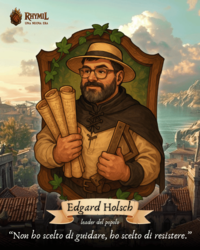
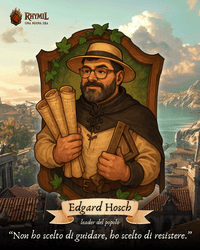
update delphine and edgard

diff --git a/index.html b/index.html
@@ -121,7 +121,7 @@
   <body>
     <header id="header">
       <div class="inner">
-        <p class="version">v1.5</p>
+        <p class="version">v1.7</p>
         <a href="#" class="image logo"><img src="./images/avatar.png" /></a>
         <p class="description">
           Benvenuto su Rhymil, il sito web centralizzatore di link ed
@@ -213,6 +213,20 @@
         </li>
       </ul>
       <div class="factions">
+        
+        
+        
+        
+        
+        
+        
+        
+        
+        
+        
+        
+        
+        
         
         
         
@@ -451,6 +465,8 @@
           </section>
 
           
+  
+  
   <section id="section-stato-del-popolo-libero" class="panel-section">
     <h3 class="panel-title">
       ✊ Stato del Popolo Libero
@@ -466,15 +482,6 @@
       <span class="myimage-name">Savannah Morr</span>
       <span class="myimage-owner">- Micol Stivanello</span><br />
       <span class="myimage-desc">Sfarfalla ovunque per nascondere il fatto che non sa fare niente. Le piace: i pettegolezzi, correre dietro ai paladini. Non le piace: i rituali, i carciofi.</span>
-    </span>
-  </a>
-
-  <a href="/rhymil/stato-del-popolo-libero/p_gilbur.png" data-pswp-width="1080" data-pswp-height="1350" title="Gilbur Battifoglia">
-    <img src="/rhymil/stato-del-popolo-libero/thumb/p_gilbur.png" width="110" alt="Gilbur Battifoglia" loading="lazy" />
-    <span class="pswp-caption-content">
-      <span class="myimage-name">Gilbur Battifoglia</span>
-      <span class="myimage-owner">- Gilberto Presello</span><br />
-      <span class="myimage-desc">Nano di Pianura giunto a Navimbur per migliorare la sua bravura nell&#39;arte orafa. Amichevole e diretto. Farebbe qualsiasi cosa per un buon pezzo di formaggio ed è sempre disposto ad aiutare chi ha bisogno. È un tipo curioso e attento ai dettagli, qualcuno direbbe che è più interessato alle pietre e agli ingranaggi che alle persone. Crede nella giustizia più che nelle leggi e, per fortuna, non è testardo come i suoi cugini di Rerforth.</span>
     </span>
   </a>
 
@@ -550,10 +557,10 @@
     </span>
   </a>
 
-  <a href="/rhymil/stato-del-popolo-libero/m_edgard.png" data-pswp-width="1080" data-pswp-height="1350" title="Edgard Holsch">
-    <img src="/rhymil/stato-del-popolo-libero/thumb/m_edgard.png" width="110" alt="Edgard Holsch" loading="lazy" />
+  <a href="/rhymil/stato-del-popolo-libero/m_edgard.png" data-pswp-width="1080" data-pswp-height="1350" title="Edgard Hosch">
+    <img src="/rhymil/stato-del-popolo-libero/thumb/m_edgard.png" width="110" alt="Edgard Hosch" loading="lazy" />
     <span class="pswp-caption-content">
-      <span class="myimage-name">Edgard Holsch</span>
+      <span class="myimage-name">Edgard Hosch</span>
       <span class="myimage-owner">- master Tobi</span><br />
       <span class="myimage-desc"></span>
     </span>
@@ -589,6 +596,8 @@
   </section>
 
           
+  
+  
   <section id="section-terre-barbariche" class="panel-section">
     <h3 class="panel-title">
       🏺 Terre Barbariche
@@ -745,6 +754,8 @@
   </section>
 
           
+  
+  
   <section id="section-ordine-clericale" class="panel-section">
     <h3 class="panel-title">
       📜 Ordine Clericale
@@ -820,6 +831,8 @@
   </section>
 
           
+  
+  
   <section id="section-ordine-dei-maghi" class="panel-section">
     <h3 class="panel-title">
       🔮 Ordine dei Maghi
@@ -904,6 +917,8 @@
   </section>
 
           
+  
+  
   <section id="section-ordine-dei-paladini" class="panel-section">
     <h3 class="panel-title">
       🛡 Ordine dei Paladini
@@ -1006,6 +1021,8 @@
   </section>
 
           
+  
+  
   <section id="section-ordine-dei-cavalieri" class="panel-section">
     <h3 class="panel-title">
       ⚔ Ordine dei Cavalieri
@@ -1090,6 +1107,8 @@
   </section>
 
           
+  
+  
   <section id="section-fratellanza-dei-pirati" class="panel-section">
     <h3 class="panel-title">
       🏴☠ Nuova Fratellanza dei Pirati
